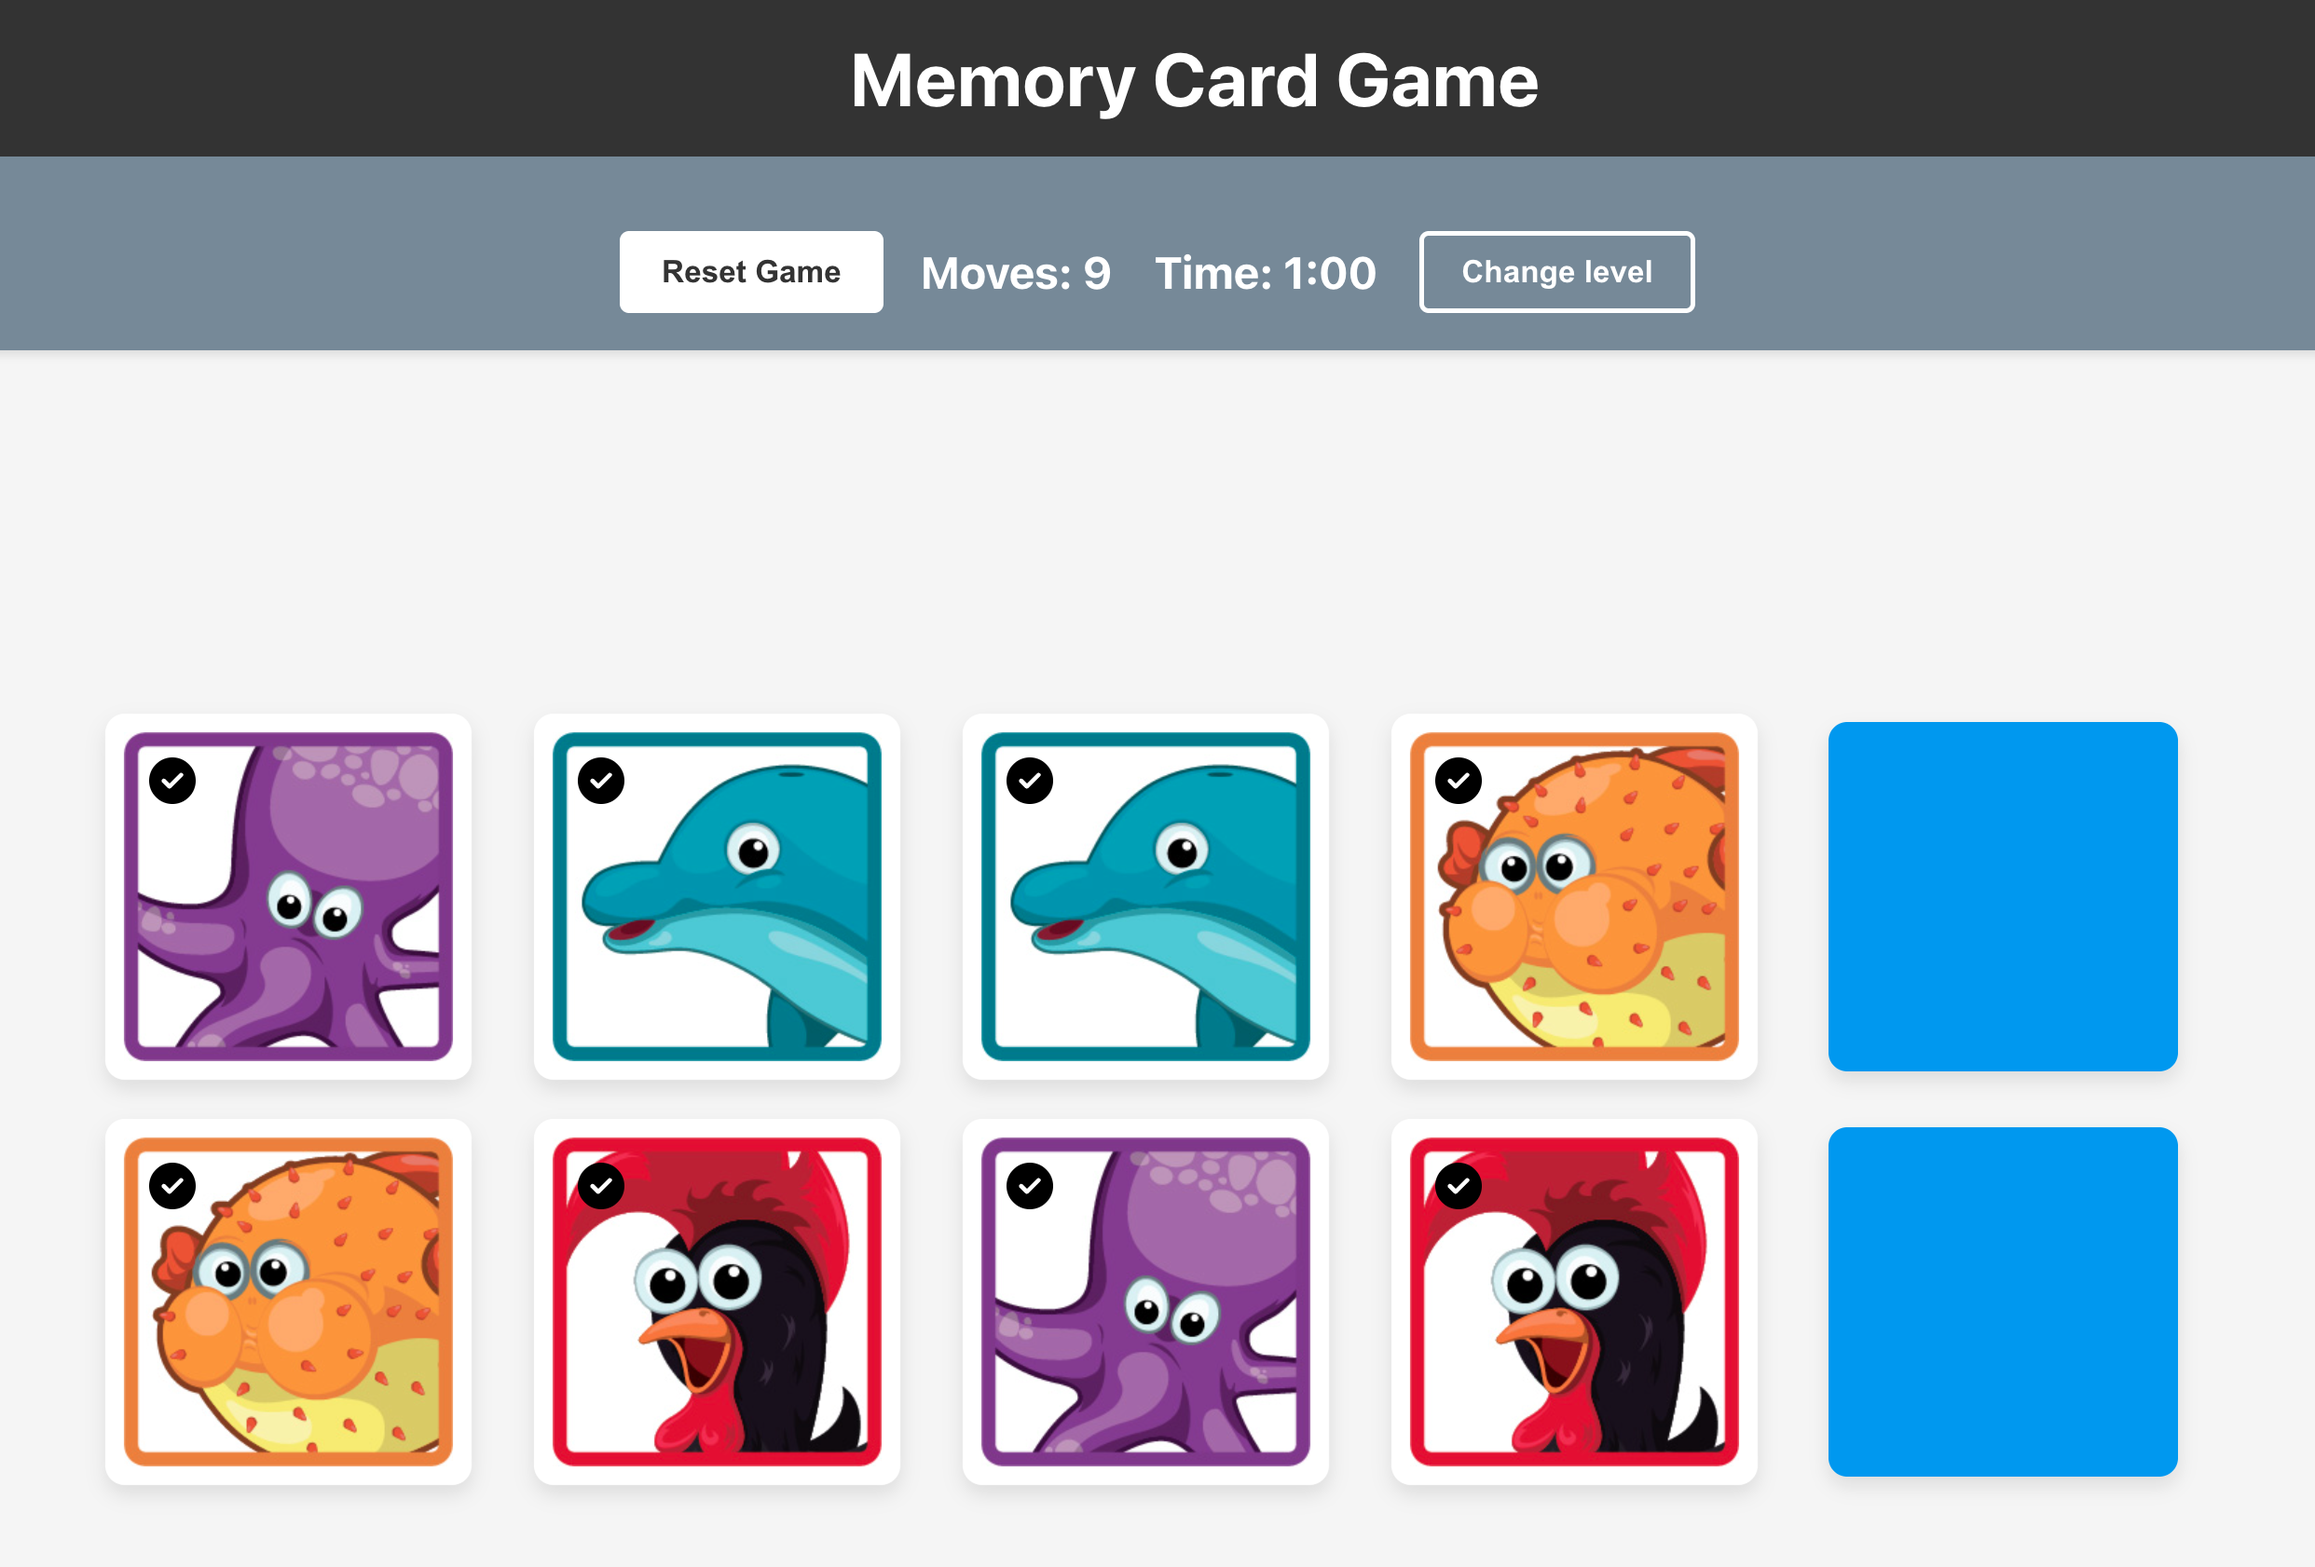
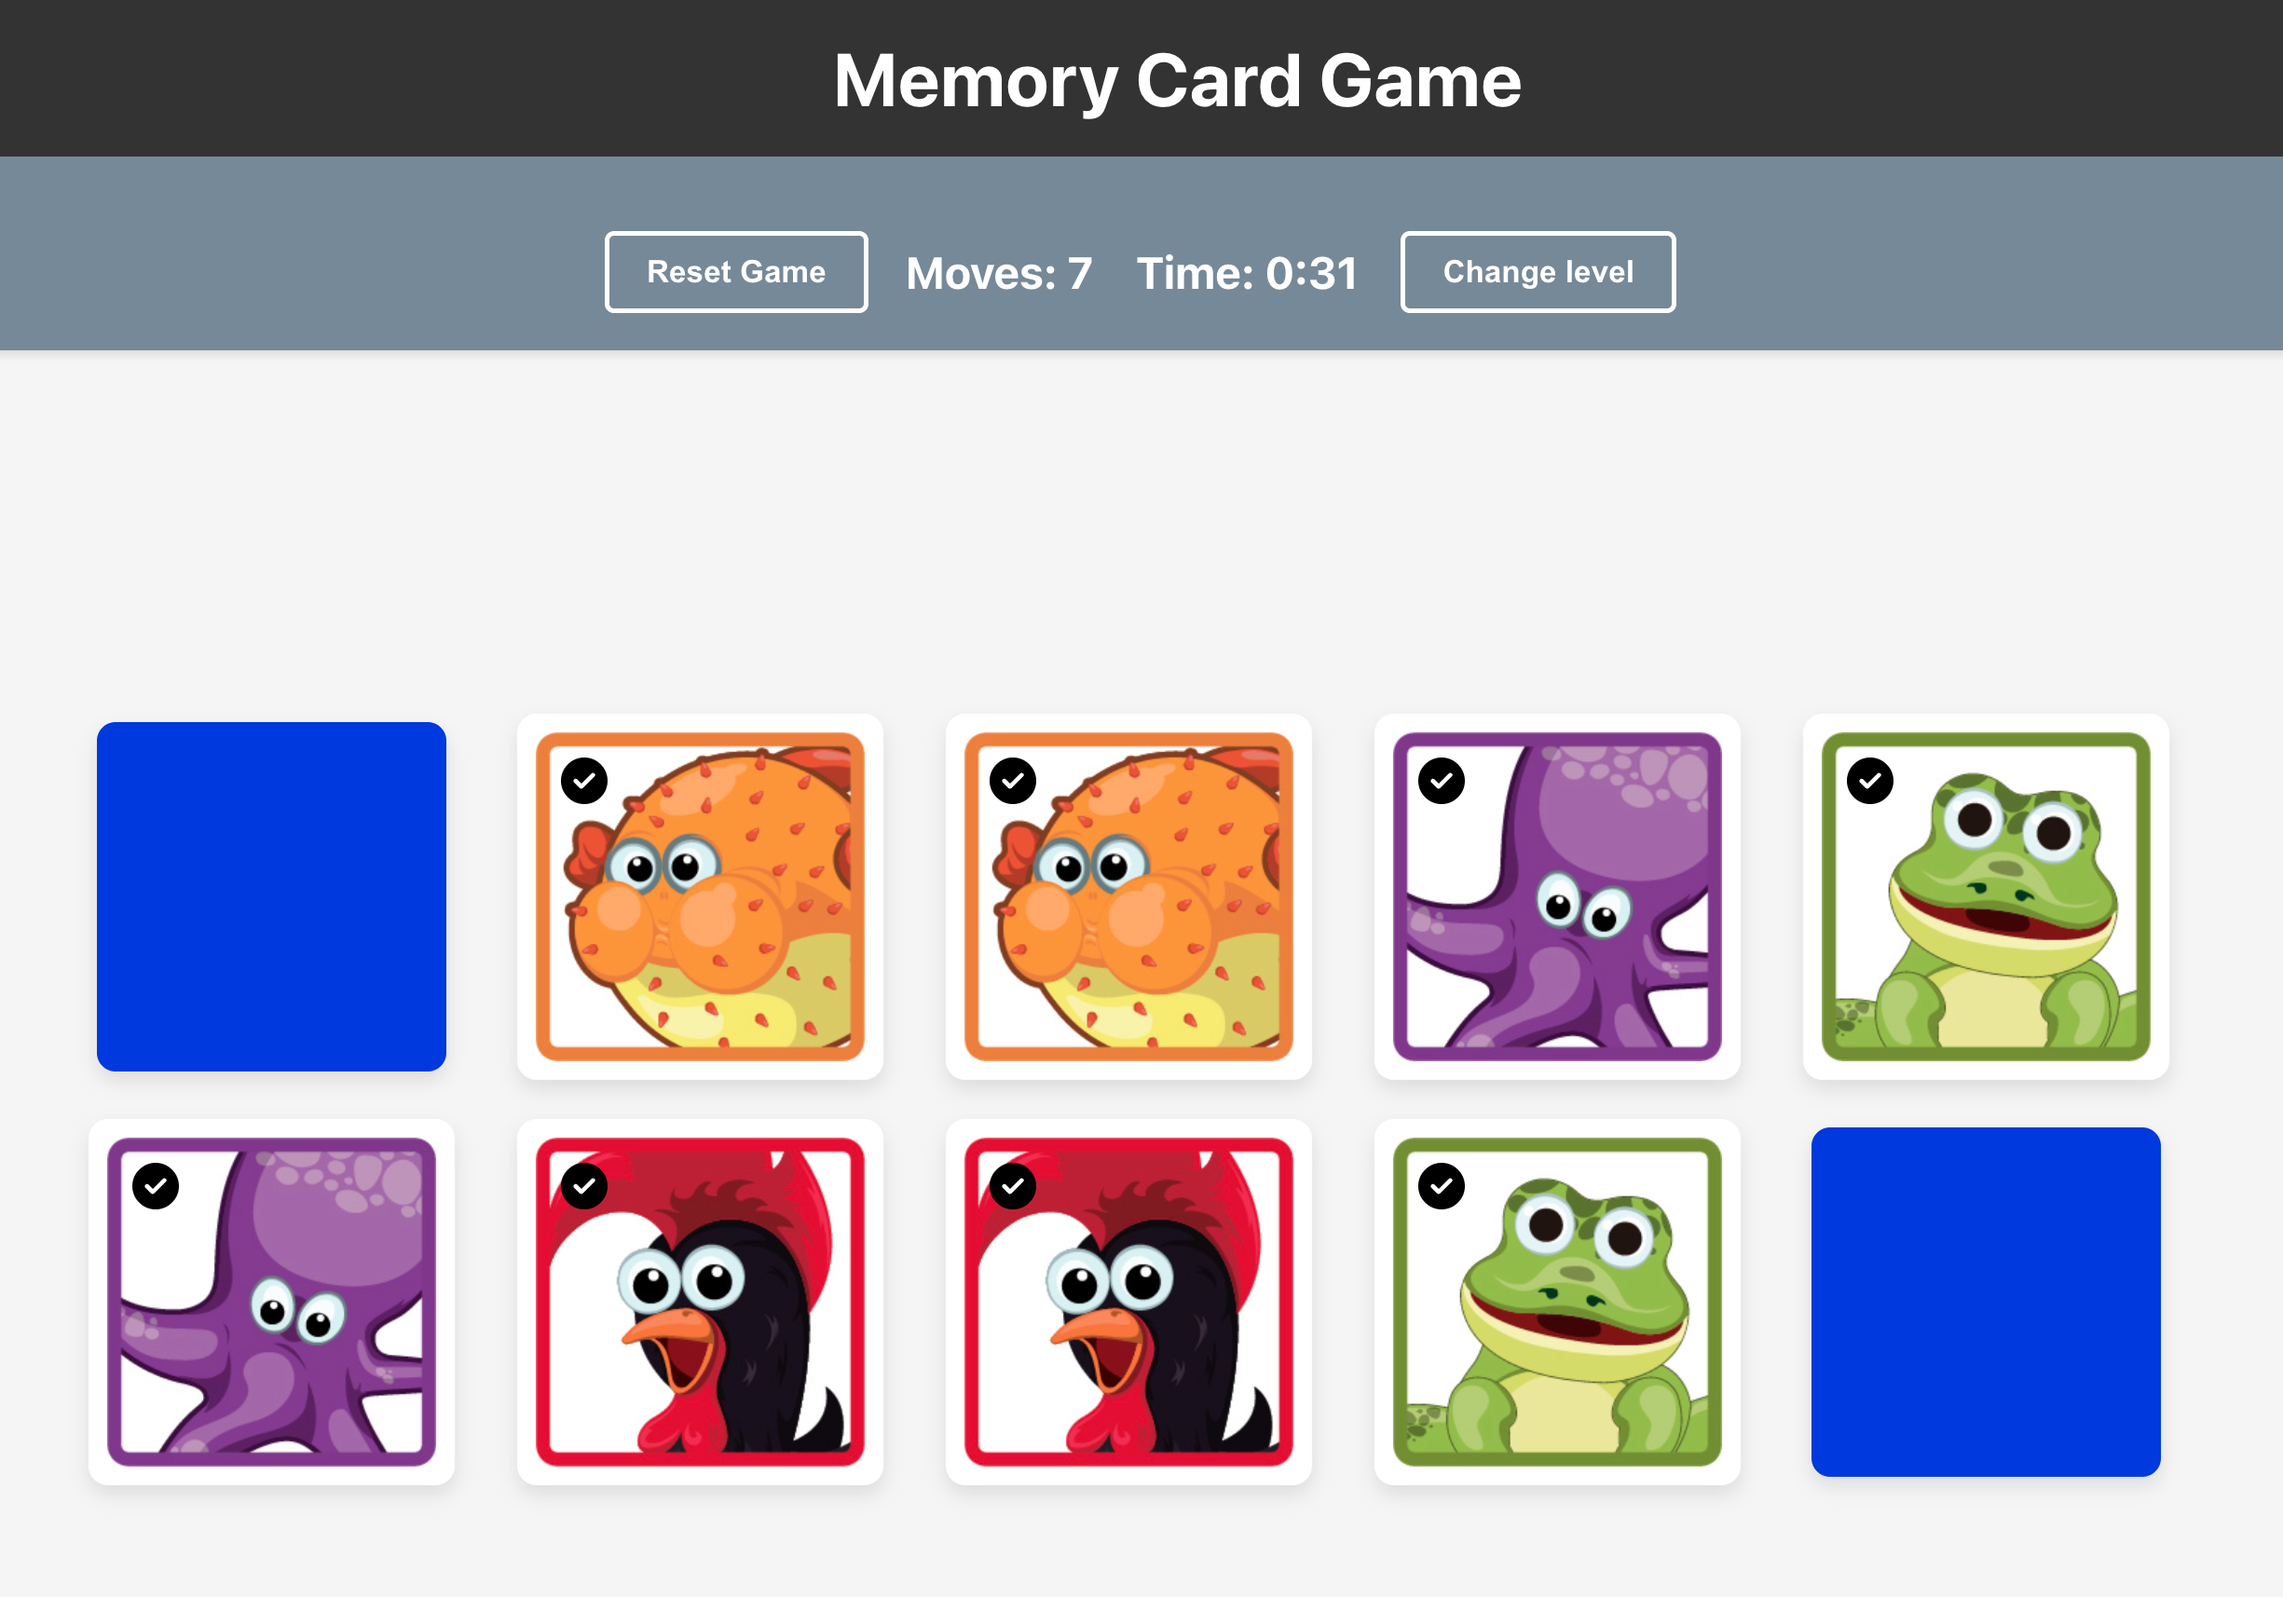
Some adjustments

diff --git a/src/components/Header/Header.tsx b/src/components/Header/Header.tsx
@@ -3,6 +3,7 @@ import './Header.scss';
 interface IHeaderProps {
   moves: number;
   timeElapsed: string;
+  isModalOpen: boolean;
   onReset: () => void;
   setOpenModal: (isModalOpen: boolean) => void;
 }
@@ -10,6 +11,7 @@ interface IHeaderProps {
 const Header = ({
   moves,
   timeElapsed,
+  isModalOpen,
   onReset,
   setOpenModal,
 }: IHeaderProps) => {
@@ -17,32 +19,35 @@ const Header = ({
     <>
       <header className='header' data-testid='game-header'>
         <h1>Memory Card Game</h1>
-        <div className='header-controls'>
-          <button
-            className='reset-button'
-            data-testid='reset-game-button'
-            onClick={onReset}
-            disabled={timeElapsed === '0:00'}
-          >
-            Reset Game
-          </button>
-          <span className='moves' data-testid='moves-counter'>
-            Moves: {moves}
-          </span>
-          <span className='time' data-testid='time-counter'>
-            Time: {timeElapsed}
-          </span>
-          <button
-            className='reset-button'
-            data-testid='change-level-button'
-            onClick={() => {
-              onReset();
-              setOpenModal(true);
-            }}
-          >
-            Change level
-          </button>
-        </div>
+        {/* If the modal is open, don't render the controls */}
+        {!isModalOpen && (
+          <div className='header-controls'>
+            <button
+              className='reset-button'
+              data-testid='reset-game-button'
+              onClick={onReset}
+              disabled={timeElapsed === '0:00'}
+            >
+              Reset Game
+            </button>
+            <span className='moves' data-testid='moves-counter'>
+              Moves: {moves}
+            </span>
+            <span className='time' data-testid='time-counter'>
+              Time: {timeElapsed}
+            </span>
+            <button
+              className='reset-button'
+              data-testid='change-level-button'
+              onClick={() => {
+                onReset();
+                setOpenModal(true);
+              }}
+            >
+              Change level
+            </button>
+          </div>
+        )}
       </header>
     </>
   );

diff --git a/src/store/gameStore.test.ts b/src/store/gameStore.test.ts
@@ -148,11 +148,6 @@ describe('Game Store', () => {
         card.pairId === firstCard.pairId && card.id !== firstCard.id
       );
 
-      // Debug information
-      console.log('First card:', firstCard);
-      console.log('All cards:', state.cards);
-      console.log('Matching cards:', matchingCards);
-
       // Ensure we found at least one matching card
       expect(matchingCards.length).toBeGreaterThan(0);
 

diff --git a/src/components/SuccessModal/SuccessModal.tsx b/src/components/SuccessModal/SuccessModal.tsx
@@ -10,7 +10,7 @@ const SuccessModal = () => {
     timeElapsed,
     score,
     setDifficulty,
-    setOpenModal,
+    setModalOpen,
     initializeGame,
   } = useGameStore();
 
@@ -20,7 +20,7 @@ const SuccessModal = () => {
     setIsClosing(true);
     initializeGame();
     setTimeout(() => {
-      setOpenModal(false);
+      setModalOpen(false);
     }, 300); // Match the animation duration
   };
 

diff --git a/src/App.tsx b/src/App.tsx
@@ -21,7 +21,8 @@ function App() {
         onReset={initializeGame}
         moves={moves}
         timeElapsed={timeElapsed}
-        setModalOpen={setModalOpen}
+        setOpenModal={setModalOpen}
+        isModalOpen={isModalOpen}
       />
       <main>
         <CardGrid cards={cards} onCardFlip={flipCard} />

diff --git a/src/styles/_variables.scss b/src/styles/_variables.scss
@@ -2,7 +2,7 @@
 
 // Colors
 $primary-color: #1134e4;
-$header-color: #778899;
+$header-color: #5a6673;
 $success-color: #4caf50;
 $background-color: #f5f5f5;
 $text-color: #333;
